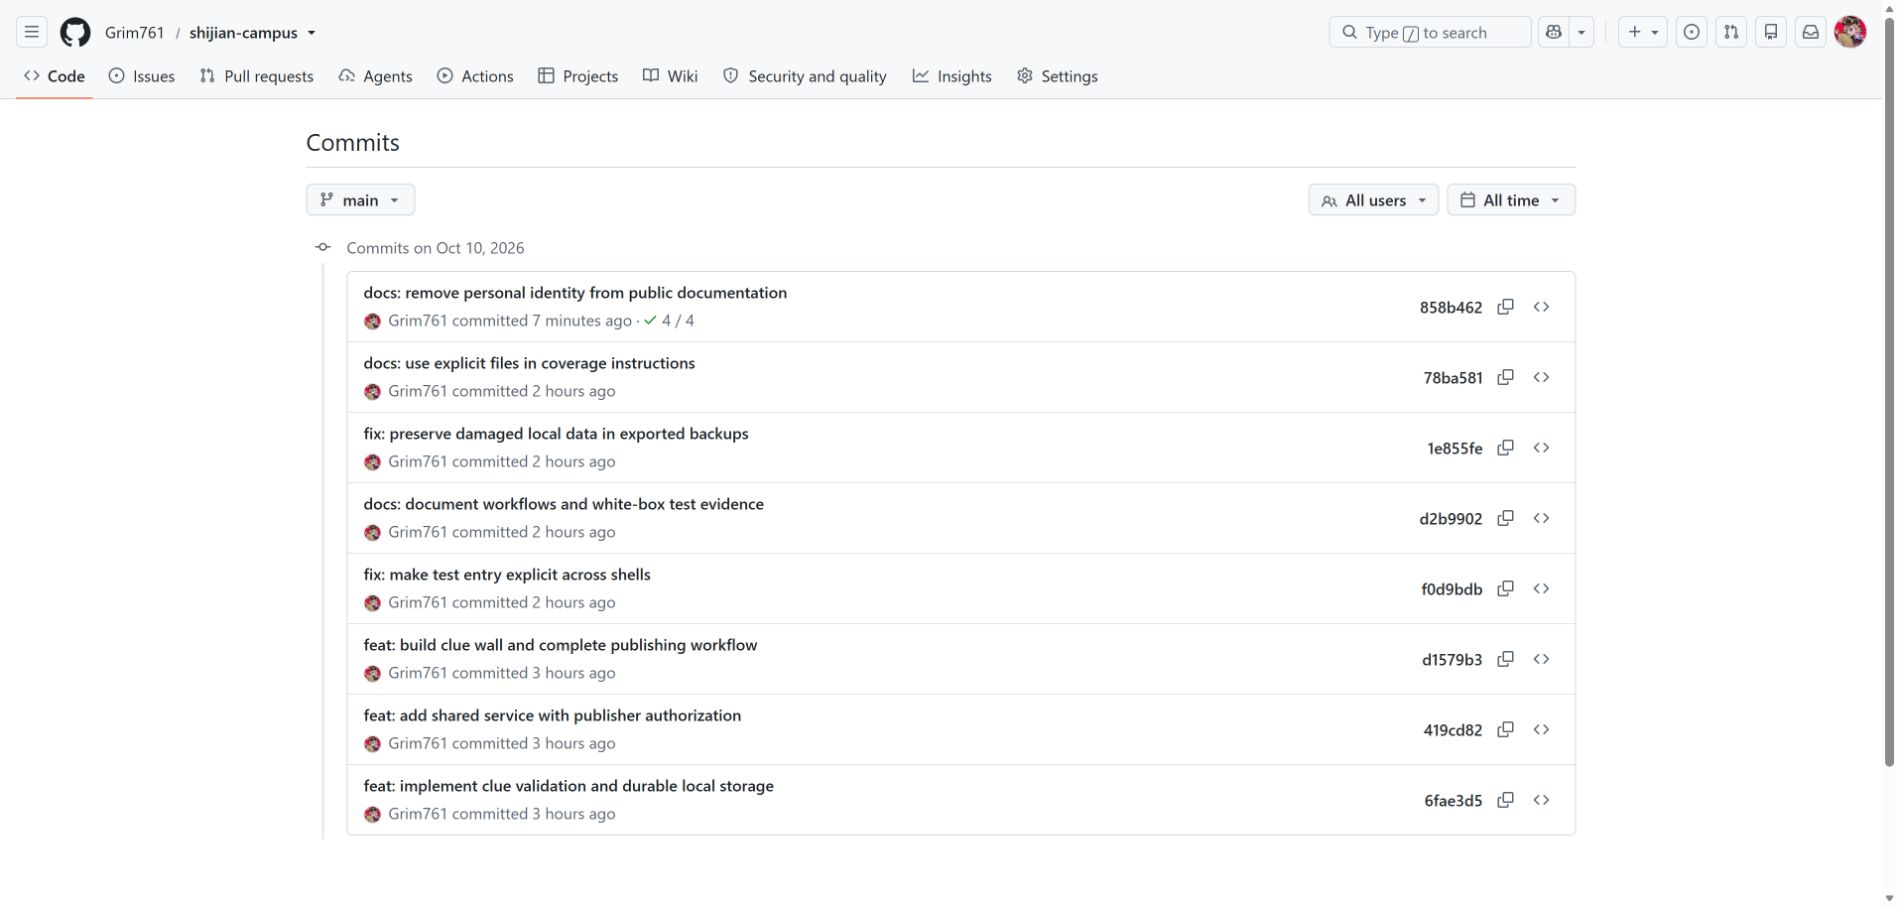
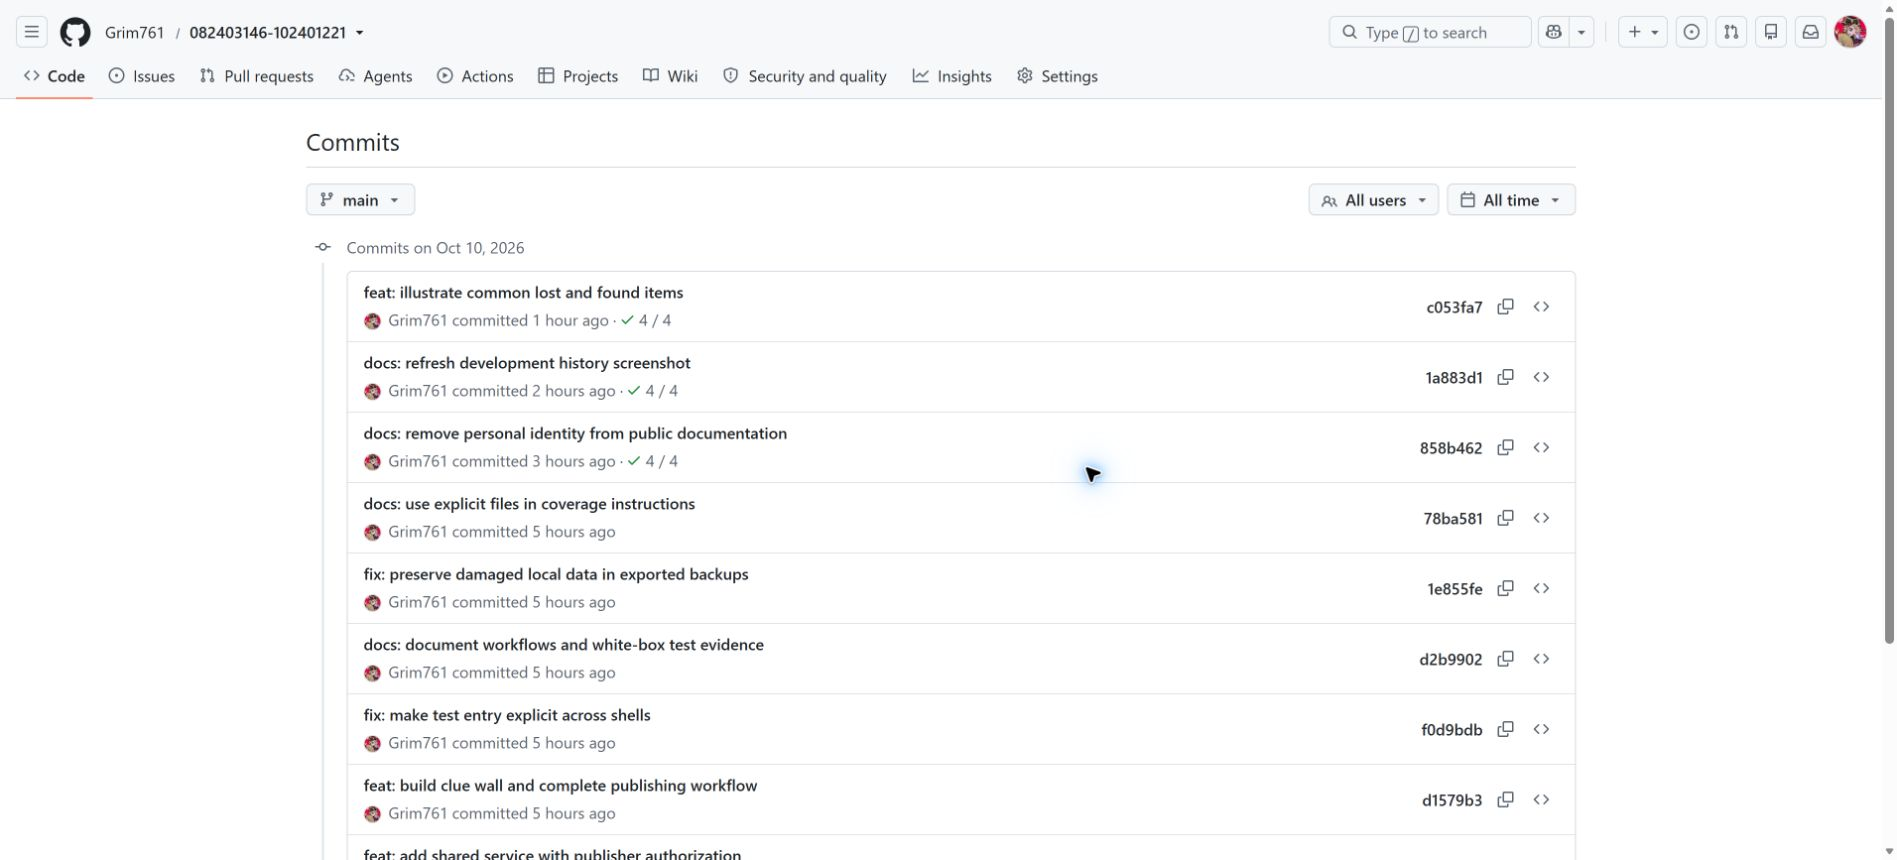
docs: align repository links with assignment naming

diff --git a/index.html b/index.html
@@ -28,7 +28,7 @@
     </header>
     <div id="storage-notice" class="notice" role="status" hidden></div>
     <main id="main-content" tabindex="-1"><div class="loading"><span class="loading-mark">拾</span><p>正在整理线索…</p></div></main>
-    <footer class="site-footer"><span>一条线索，一个归处。</span><div><button type="button" data-action="help">使用指南</button><button id="export-button" type="button" data-action="export" hidden>导出本机备份</button><a href="https://github.com/Grim761/shijian-campus" target="_blank" rel="noopener">项目仓库 ↗</a></div></footer>
+    <footer class="site-footer"><span>一条线索，一个归处。</span><div><button type="button" data-action="help">使用指南</button><button id="export-button" type="button" data-action="export" hidden>导出本机备份</button><a href="https://github.com/Grim761/082403146-102401221" target="_blank" rel="noopener">项目仓库 ↗</a></div></footer>
   </div>
   <dialog id="modal" aria-labelledby="modal-title"></dialog>
   <div id="toast" class="toast" role="status" aria-live="polite" hidden></div>

diff --git a/README.md b/README.md
@@ -4,7 +4,7 @@
 
 把寻物、招领消息做成一张张“校园线索卡”：先看时间和地点，再核对物品特征，最后由发布者更新结果。
 
-- [在线体验（本机保存模式）](https://grim761.github.io/shijian-campus/)
+- [在线体验（本机保存模式）](https://grim761.github.io/082403146-102401221/)
 - [作业要求](https://edu.cnblogs.com/campus/fzu/2026-01SoftwareEngineeringandSoftwareEngineeringPractice/homework/16745)
 - [此前的交互原型](https://grim761.github.io/campus-lost-found-prototype/)
 - [测试报告](docs/测试报告.md) · [开发计划](docs/开发计划.md) · [协作与提交说明](docs/协作与提交说明.md)
@@ -42,8 +42,8 @@
 需要 **Node.js 22 或更新版本**。本项目没有第三方 npm 依赖，无需运行 `npm install`。
 
 ```bash
-git clone https://github.com/Grim761/shijian-campus.git
-cd shijian-campus
+git clone https://github.com/Grim761/082403146-102401221.git
+cd 082403146-102401221
 npm start
 ```
 
@@ -72,7 +72,7 @@ node server/server.js
 ## 4. 文件结构
 
 ```text
-shijian-campus/
+082403146-102401221/
 ├── index.html                # 页面入口，经典脚本按依赖顺序加载
 ├── css/style.css             # 纸色线索卡布局，含移动端断点
 ├── js/

diff --git a/docs/开发计划.md b/docs/开发计划.md
@@ -36,7 +36,7 @@
 
 - 主仓库维护者：界面与页面流程、发布表单、文档整理。
 - 结对协作者：搜索与筛选边界、状态变更检查、测试与运行说明复核。
-- GitHub 协作：主仓库 `Grim761/shijian-campus`；结对协作者账号 `coderbrain404` fork 后提交实际修改的 PR。
+- GitHub 协作：主仓库 `Grim761/082403146-102401221`；结对协作者账号 `coderbrain404` fork 后提交实际修改的 PR。
 
 ## 记录方式
 
